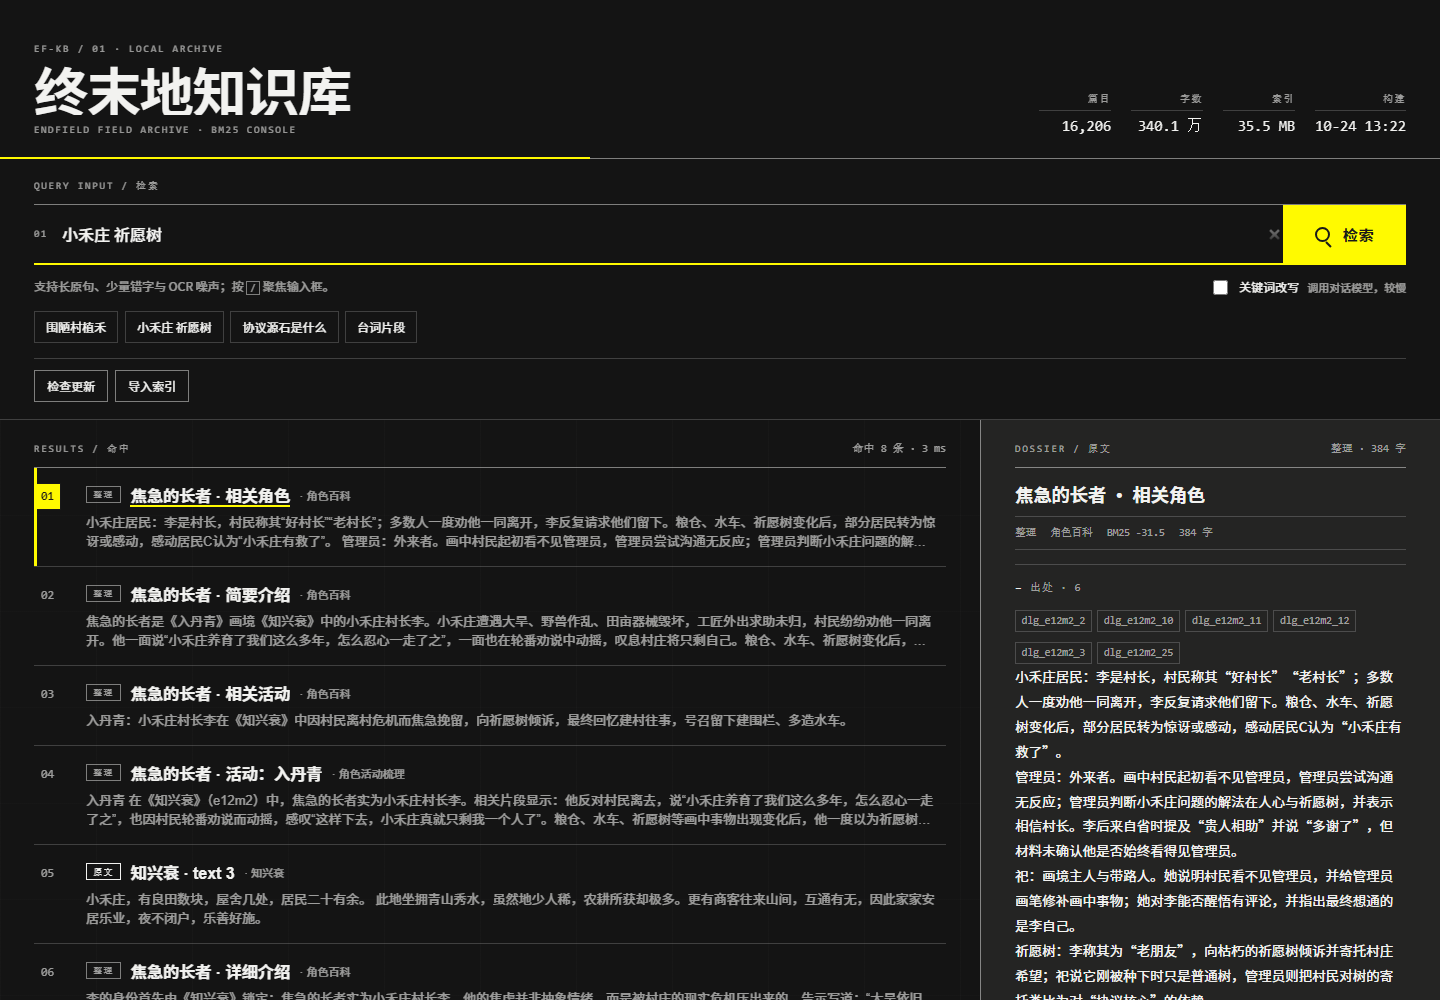
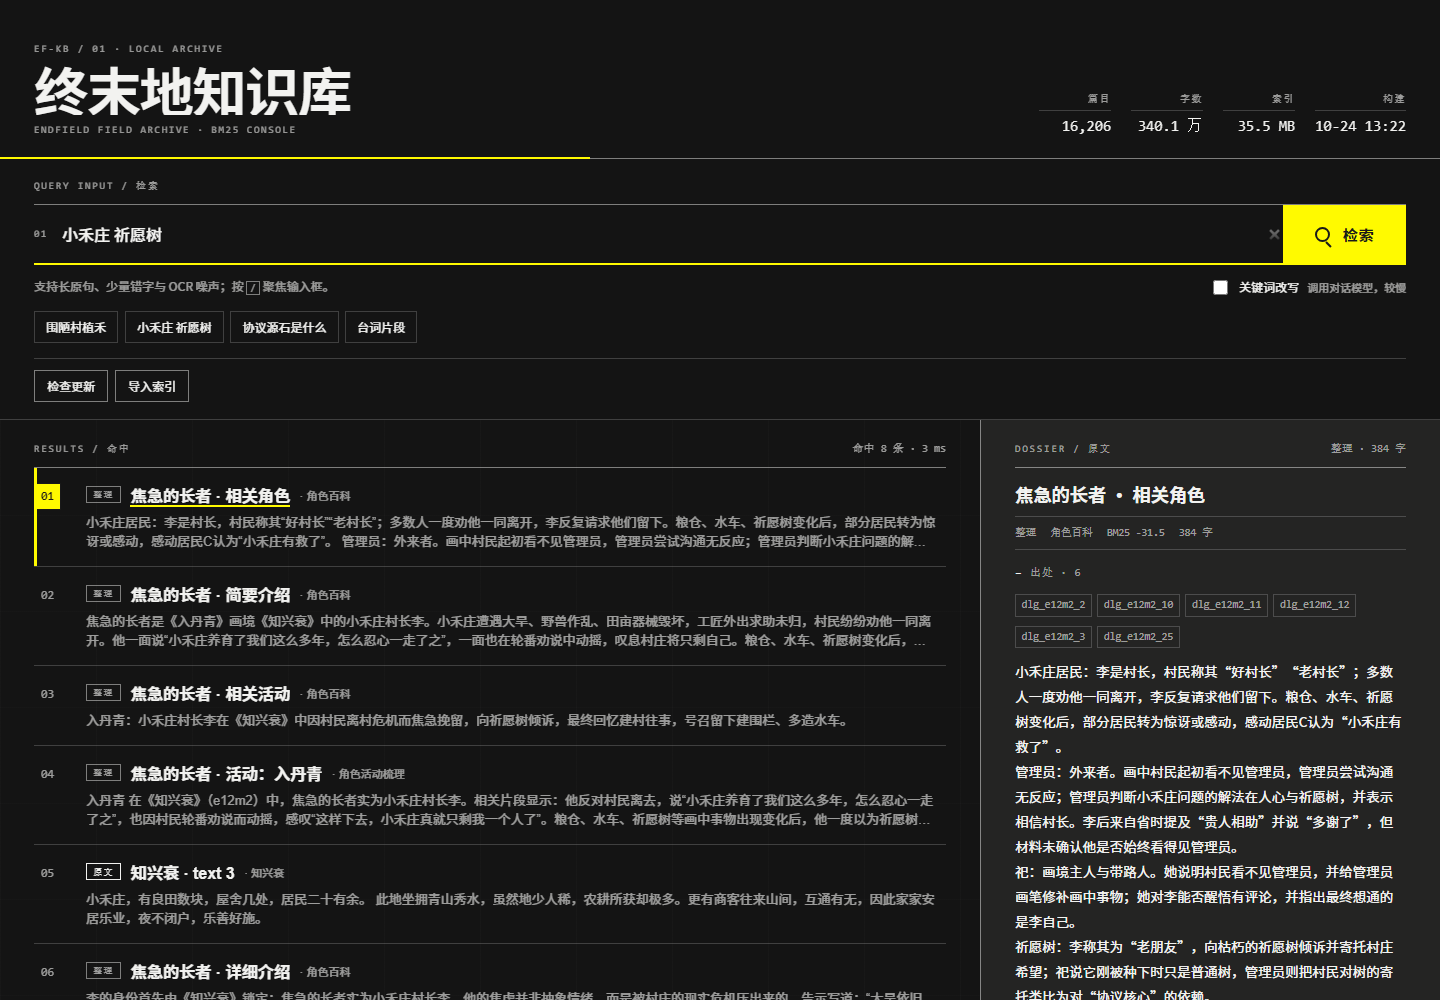
feat: auto update, index upload, disk usage notes

Changed region(s): [[0.6875, 0.558, 0.9688, 1.0]]

diff --git a/views/kb-console/app.js b/views/kb-console/app.js
@@ -53,6 +53,12 @@ function formatChars(value) {
   return formatCount(value);
 }
 
+function formatBytes(value) {
+  const bytes = Number(value);
+  if (!Number.isFinite(bytes) || bytes <= 0) return "—";
+  return `${(bytes / 1048576).toFixed(1)} MiB`;
+}
+
 function compactTime(value) {
   if (!value) return "—";
   return String(value).slice(5, 16);
@@ -326,7 +332,7 @@ async function loadStats() {
     els.built.textContent = compactTime(stats.built_at);
     const refs = Number(stats.refs);
     const refNote = Number.isFinite(refs) && refs > 0 ? ` · 出处 ${formatCount(refs)} 处` : "";
-    els.release.textContent = `语料：${formatRelease(stats.release)}${refNote}`;
+    els.release.textContent = `语料：${formatRelease(stats.release)}${refNote} · 磁盘建议预留 150 MB`;
   } catch (error) {
     els.release.textContent = `统计不可用：${error?.message || "索引未就绪"}`;
   }
@@ -359,7 +365,9 @@ async function handleCheckUpdate() {
       state.pendingUpdate = info.remote;
       els.checkUpdate.textContent = `更新到 ${info.remote.release}`;
       els.checkUpdate.dataset.tone = "primary";
-      updateStatus(`发现 ${info.remote.release} · ${info.remote.documents} 篇`);
+      updateStatus(
+        `发现 ${info.remote.release} · ${info.remote.documents} 篇 · 需下载 ${formatBytes(info.remote.size)}`,
+      );
     }
   } catch (error) {
     updateStatus(error?.message || "检查失败");

diff --git a/index_store.py b/index_store.py
@@ -149,6 +149,7 @@ def install(
     index_dir: Path,
     release_id: str,
     schema_version: int | None = None,
+    move_source: bool = False,
 ) -> Path:
     """校验并安装一个索引文件，切换 current.json。
 
@@ -157,6 +158,8 @@ def install(
         index_dir: 索引目录。
         release_id: 版本标识，用于文件名。
         schema_version: 期望的 schema 版本。
+        move_source: 为 True 时直接移动源文件，省一次 35 MB 拷贝
+            （只对临时文件使用；旧库迁移要保持原文件）。
 
     Returns:
         安装后的文件路径。
@@ -169,9 +172,18 @@ def install(
     safe_release = "".join(c for c in release_id if c.isalnum() or c in ".-_") or "unknown"
     target = index_dir / f"endfield_kb-{safe_release}.sqlite3"
 
-    tmp = target.with_suffix(".sqlite3.tmp")
-    shutil.copyfile(source, tmp)
-    os.replace(tmp, target)
+    if move_source and source.resolve() != target.resolve():
+        try:
+            os.replace(source, target)
+        except OSError:
+            tmp = target.with_suffix(".sqlite3.tmp")
+            shutil.copyfile(source, tmp)
+            os.replace(tmp, target)
+            source.unlink(missing_ok=True)
+    else:
+        tmp = target.with_suffix(".sqlite3.tmp")
+        shutil.copyfile(source, tmp)
+        os.replace(tmp, target)
 
     write_current(
         index_dir,

diff --git a/main.py b/main.py
@@ -419,7 +419,9 @@ class EndfieldKBPlugin(Star):
                 if re.fullmatch(r"\d+\.\d+\.\d+", short or "")
                 else "manual"
             )
-            installed = install(db, self.index_dir, label, SCHEMA_VERSION)
+            installed = install(
+                db, self.index_dir, label, SCHEMA_VERSION, move_source=True
+            )
             self._load_index()
             return {
                 "ok": True,

diff --git a/build_index.py b/build_index.py
@@ -83,6 +83,7 @@ def main() -> int:
             index_dir,
             release_label(root),
             schema_version=SCHEMA_VERSION,
+            move_source=True,
         )
         print(f"已安装：{installed}")
         print(f"索引目录：{index_dir}")

diff --git a/README.md b/README.md
@@ -26,6 +26,17 @@
 2. 安装依赖：`pip install jieba`（AstrBot 运行环境通常已自带）
 3. 在 WebUI 插件页启用，或重启 AstrBot
 
+## 磁盘占用
+
+| 阶段 | 占用 |
+|---|---|
+| 索引 zip（下载） | 12.5 MiB |
+| 单版本索引（解压后） | 35.5 MB |
+| 更新峰值（旧库 + 新库 + zip） | 约 85 MB |
+| 保留两版（默认） | 71 MB |
+
+**建议预留 150 MB**：解压、校验、原子替换都需要临时空间，40 MB 只够放一份解压后的库。
+
 ## 准备索引
 
 插件**不附带索引文件**。以下三种方式任选：
